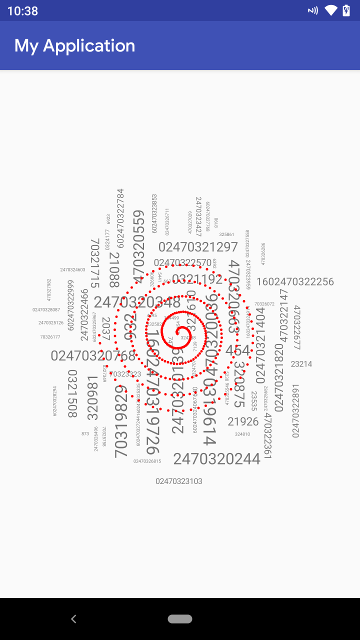
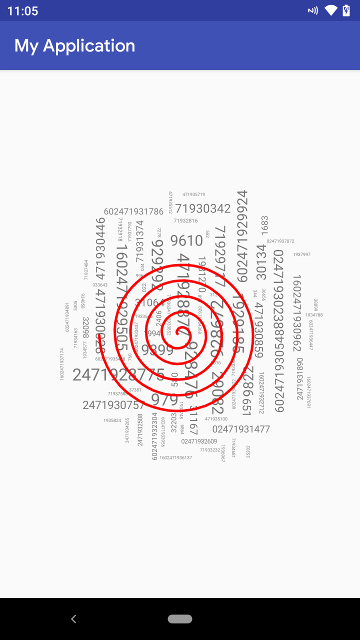
Update spiral

diff --git a/app/src/main/java/com/example/chao/myapplication/SpiralView.java b/app/src/main/java/com/example/chao/myapplication/SpiralView.java
@@ -4,6 +4,7 @@ import android.content.Context;
 import android.graphics.Canvas;
 import android.graphics.Color;
 import android.graphics.Paint;
+import android.graphics.Path;
 import android.graphics.Point;
 import android.support.annotation.Nullable;
 import android.util.AttributeSet;
@@ -19,6 +20,7 @@ import java.util.List;
 
 public class SpiralView extends View {
 
+    Path path;
     Paint paint;
     List<Point> points;
 
@@ -33,9 +35,13 @@ public class SpiralView extends View {
     public SpiralView(Context context, @Nullable AttributeSet attrs, int defStyleAttr) {
         super(context, attrs, defStyleAttr);
         paint = new Paint();
+        paint.setAntiAlias(true);
         paint.setColor(Color.RED);
-        paint.setStyle(Paint.Style.FILL);
+        paint.setStyle(Paint.Style.STROKE);
+        paint.setStrokeWidth(10);
+        paint.setStrokeCap(Paint.Cap.ROUND);
 
+        path = new Path();
         points = generateSpiral();
     }
 
@@ -43,9 +49,18 @@ public class SpiralView extends View {
     protected void onDraw(Canvas canvas) {
         int cx = getWidth() / 2;
         int cy = getHeight() / 2;
-        for(Point p : points) {
-            canvas.drawCircle(cx + p.x, cy + p.y, 5, paint);
+        path.reset();
+        for(int i = 0; i < points.size(); i++) {
+            Point p = points.get(i);
+            int x = cx + p.x;
+            int y = cy + p.y;
+            if (i == 0) {
+                path.moveTo(x, y);
+            } else {
+                path.lineTo(x, y);
+            }
         }
+        canvas.drawPath(path, paint);
     }
 
     private List<Point> generateSpiral() {
